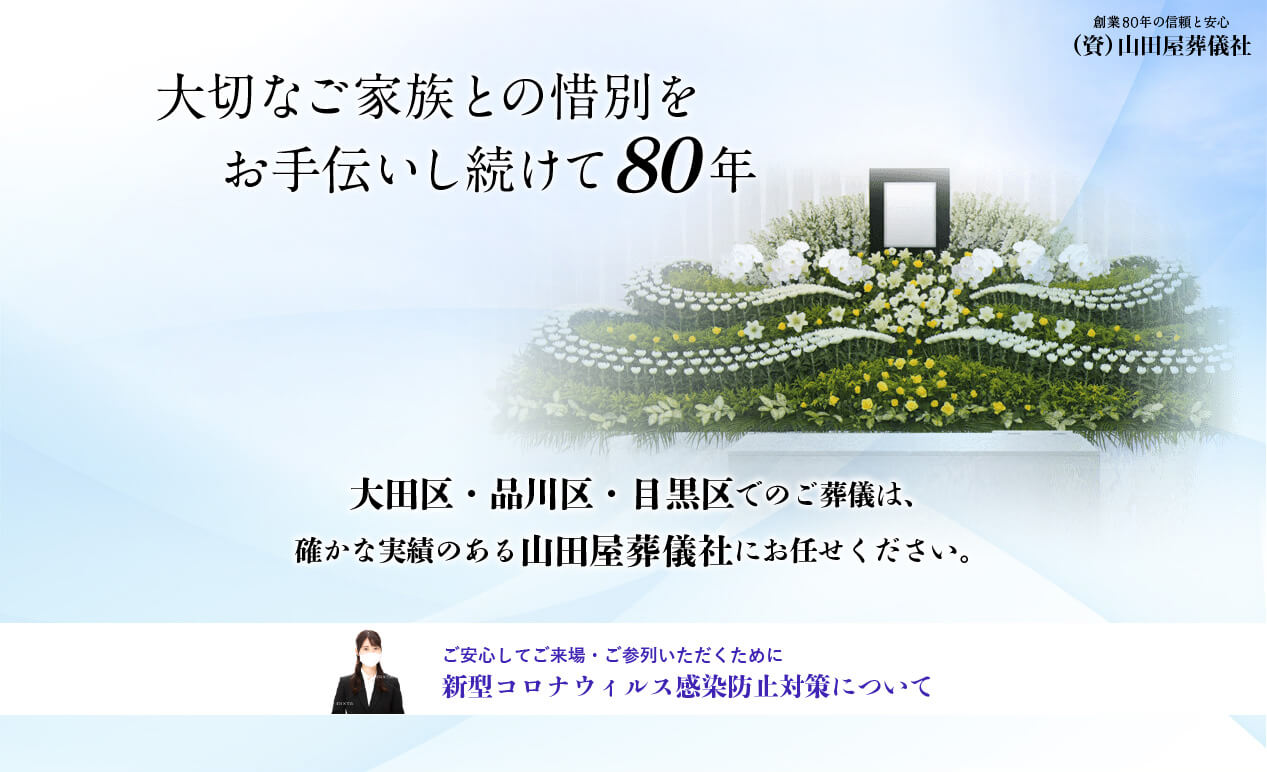
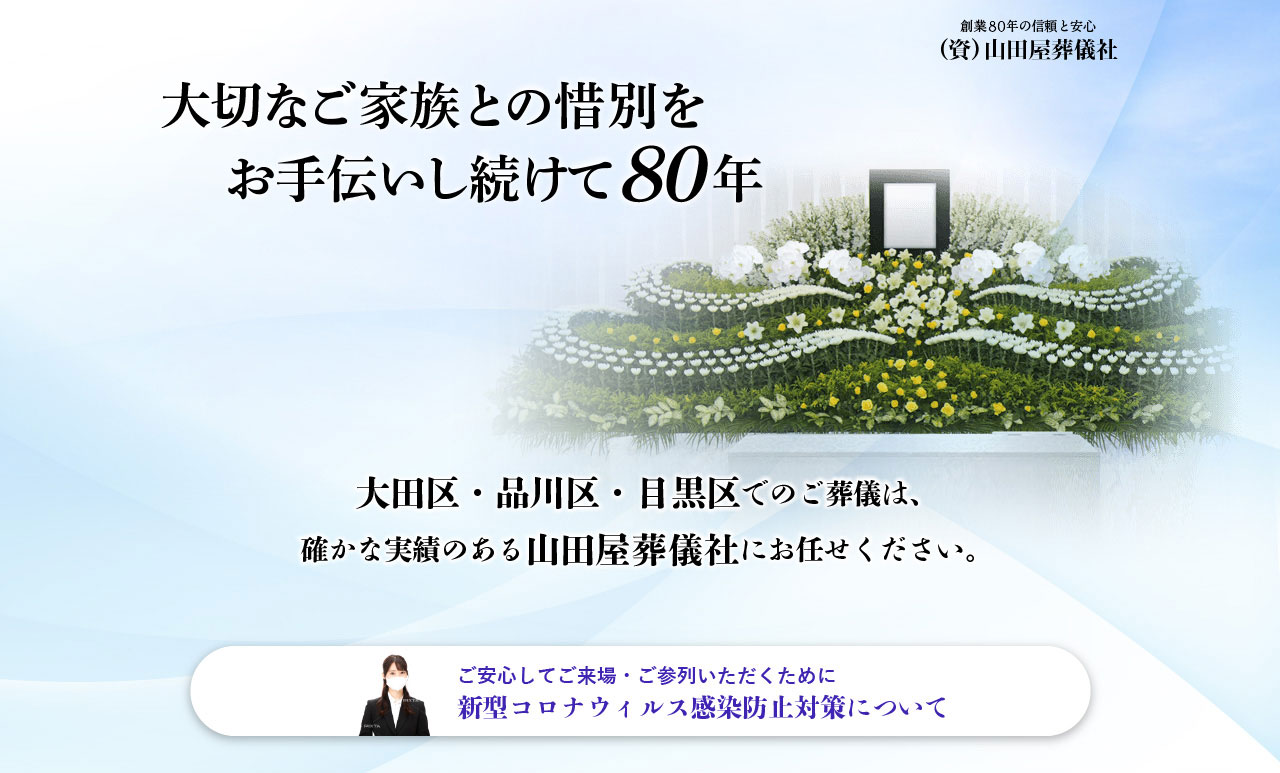
pc_sp

diff --git a/index.html b/index.html
@@ -20,10 +20,24 @@
       max-width: 1267px;
       margin: 0 auto;
     }
+    .pc {
+      display: block;
+    }
+    .sp {
+      display: none;
+    }
+    @media screen and (max-width: 480px) {
+      .pc {
+        display: none;
+      }
+      .sp {
+        display: block;
+      }
+    }
   </style>
 </head>
 <body>
-  <div class="main">
+  <div class="main pc">
     <img src="assets/images/img_01.jpg">
     <img src="assets/images/img_02.jpg">
     <img src="assets/images/img_03.jpg">
@@ -32,12 +46,16 @@
     <img src="assets/images/img_06.jpg">
     <img src="assets/images/img_07.jpg">
     <img src="assets/images/img_08.jpg">
-    <img src="assets/images/img_09.jpg">
-    <img src="assets/images/img_10.jpg">
-    <img src="assets/images/img_11.jpg">
-    <img src="assets/images/img_12.jpg">
-    <img src="assets/images/img_13.jpg">
-    <img src="assets/images/img_14.jpg">
+  </div>
+  <div class="main sp">
+    <img src="assets/images/img_sp_01.jpg">
+    <img src="assets/images/img_sp_02.jpg">
+    <img src="assets/images/img_sp_03.jpg">
+    <img src="assets/images/img_sp_04.jpg">
+    <img src="assets/images/img_sp_05.jpg">
+    <img src="assets/images/img_sp_06.jpg">
+    <img src="assets/images/img_sp_07.jpg">
+    <img src="assets/images/img_sp_08.jpg">
   </div>
 </body>
 </html>
